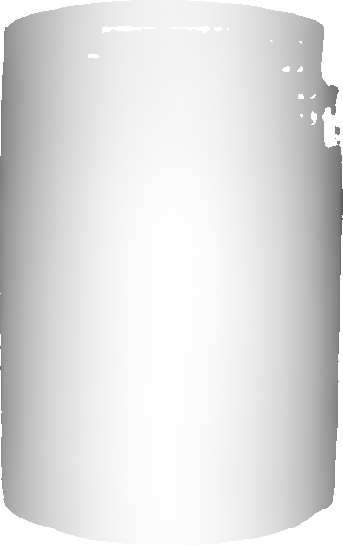
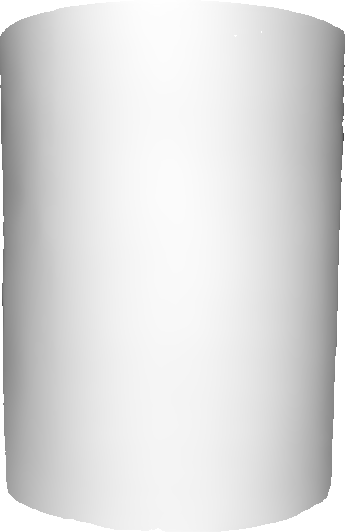
added mask where areas to increase size of are brighter and areas to keep size are darker.

diff --git a/code/depth_estimator.py b/code/depth_estimator.py
@@ -19,7 +19,8 @@ class DepthCorrection:
     method just correct by values?
     """
     def __init__(self, frame: np.ndarray) -> None:
-        frame = cv2.cvtColor(frame, cv2.COLOR_BGR2BGRA)
+        frame_org = frame
+        frame_cv2 = cv2.cvtColor(frame, cv2.COLOR_BGR2BGRA)
         alpha_channel = np.where(
             (frame[:, :, 0] == 0) &
             (frame[:, :, 1] == 0) &
@@ -27,15 +28,32 @@ class DepthCorrection:
             0,
             255
         )
-        frame[:, :, 3] = alpha_channel
-        cv2.imwrite('masked.png', frame)
-        frame = Image.fromarray(frame)
+        frame_cv2[:, :, 3] = alpha_channel
+        cv2.imwrite('masked.png', frame_cv2)
+        frame = Image.fromarray(frame_cv2)
         pipe = pipeline(task="depth-estimation",
                         model="LiheYoung/depth-anything-large-hf")
         depth = np.array(pipe(frame)["depth"])
         depth = cv2.cvtColor(depth, cv2.COLOR_BGR2BGRA)
         depth[:, :, 3] = alpha_channel
+
         cv2.imwrite('depth.png', depth)
+
+        _, _, _, a = cv2.split(depth)
+        mask = a > 0
+        gray = cv2.cvtColor(depth[:, :, :3],
+                            cv2.COLOR_BGRA2GRAY)
+        depth = np.where(mask, gray, 255)
+        depth = cv2.bitwise_not(depth)
+        min_val = np.min(depth[mask])
+        max_val = np.max(depth[mask])
+        print(min_val, max_val)
+        print(np.mean(depth[mask]))
+        print(np.median(depth[mask]))
+        print('....')
+
+        cv2.imwrite('depth_gs.png', depth)
+        self.frame = False
 
     def _estimate_depth(self, frame, mask):
         pass

diff --git a/code/image_manager.py b/code/image_manager.py
@@ -63,22 +63,19 @@ class ManageFrames:
         _, binary_mask = cv2.threshold(roi_mask, 5, 255, cv2.THRESH_BINARY)
         cv2.imwrite('mask.png', roi_mask)
         contours, _ = cv2.findContours(binary_mask, 1, 2)
+        img = False
         if len(contours) >= 1:
             x, y, w, h = cv2.boundingRect(max(contours, key=cv2.contourArea))
-            print(roi_mask.shape)
-            print(x, y, w, h)
             img_to_depth = cv2.bitwise_and(frame,
                                            cv2.cvtColor(binary_mask,
                                                         cv2.COLOR_GRAY2RGB),
                                            binary_mask)
             img_to_depth = img_to_depth[y:y+h, x:x+w]
-            for val in list(cv2.resize(img_to_depth,
-                                       (img_to_depth.shape[0]//5,
-                                        img_to_depth.shape[1]//5))):
-                vals = ['O' if list(px) == [0, 0, 0] else ' ' for px in val]
-                print(''.join(vals))
-            DepthCorrection(img_to_depth)
-        img = self.cylindrical_unwrap(frame, roi_mask)
+
+            de = DepthCorrection(img_to_depth)
+            img = de.frame
+        if isinstance(img, bool):
+            img = self.cylindrical_unwrap(frame, roi_mask)
         if isinstance(img, np.ndarray):
             img = self.enhance_frame(img)
             return img

diff --git a/code/just_track.py b/code/just_track.py
@@ -16,7 +16,8 @@ class TrackVideo:
         # Estimate changes/movements inside contour, add after threshold
         # merge the images.
         # compare result + performance.
-        # (evaluate result when done- make sure panorama covers all of the label)
+        # (evaluate result when done- make sure panorama covers
+        # all of the label)
         # https://www.youtube.com/watch?v=oDALtKbprHg
         # https://www.youtube.com/watch?v=GgGro5IV-cs
         pass
